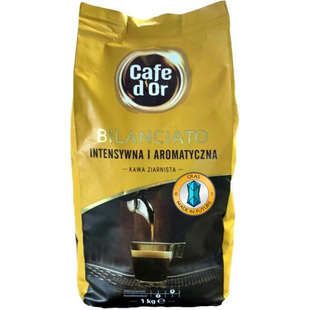
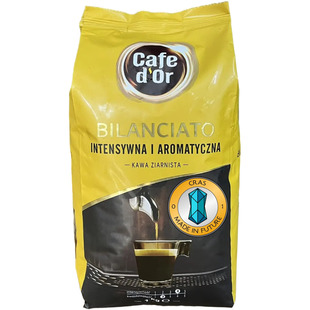
Added big coffee img

diff --git a/js/food/array-coffee_beans.js b/js/food/array-coffee_beans.js
@@ -107,8 +107,14 @@ export const shopLotsCoffeeBeans = [
         type: "retail",
         url: "./images/shop/food/drinks/coffee_beans/cafe_d`Or_bilanciato_1kg.jpg",
         alt: "cafe_d`Or_bilanciato_1kg",
-        url1: "./images/shop/food/drinks/coffee_beans/cafe_d`Or_bilanciato_1kg.jpg",
-        alt1: "cafe_d`Or_bilanciato_1kg",
+        url1: "./images/shop/food/drinks/coffee_beans/cafe_d`Or_bilanciato_1kg-01.jpg",
+        alt1: "cafe_d`Or_bilanciato_1kg-01",
+        url2: "./images/shop/food/drinks/coffee_beans/cafe_d`Or_bilanciato_1kg-02.jpg",
+        alt2: "cafe_d`Or_bilanciato_1kg-02",
+        url3: "./images/shop/food/drinks/coffee_beans/cafe_d`Or_bilanciato_1kg-03.jpg",
+        alt3: "cafe_d`Or_bilanciato_1kg-03",
+        url4: "./images/shop/food/drinks/coffee_beans/cafe_d`Or_bilanciato_1kg-04.jpg",
+        alt4: "cafe_d`Or_bilanciato_1kg-04",
         marker: "CFBN100",
         brand: "Cafe D`Or",
         search: "кафе дьор кава кофе у зерно зернова в зернах",
@@ -130,8 +136,12 @@ export const shopLotsCoffeeBeans = [
         type: "retail",
         url: "./images/shop/food/drinks/coffee_beans/cafe_d`Or_crema_500.jpg",
         alt: "cafe_d`Or_crema_500",
-        url1: "./images/shop/food/drinks/coffee_beans/cafe_d`Or_crema_500.jpg",
-        alt1: "cafe_d`Or_crema_500",
+        url1: "./images/shop/food/drinks/coffee_beans/cafe_d`Or_crema_500-01.jpg",
+        alt1: "cafe_d`Or_crema_500-01",
+        url2: "./images/shop/food/drinks/coffee_beans/cafe_d`Or_crema_500-02.jpg",
+        alt2: "cafe_d`Or_crema_500-02",
+        url3: "./images/shop/food/drinks/coffee_beans/cafe_d`Or_crema_500-03.jpg",
+        alt3: "cafe_d`Or_crema_500-03",
         marker: "CFBN105",
         brand: "Cafe D`Or",
         search: "кафе дьор кава кофе у зерно зернова в зернах крема крем кремова",
@@ -153,8 +163,12 @@ export const shopLotsCoffeeBeans = [
         type: "retail",
         url: "./images/shop/food/drinks/coffee_beans/cafe_d`Or_espresso_500.jpg",
         alt: "cafe_d`Or_espresso_500",
-        url1: "./images/shop/food/drinks/coffee_beans/cafe_d`Or_espresso_500.jpg",
-        alt1: "cafe_d`Or_espresso_500",
+        url1: "./images/shop/food/drinks/coffee_beans/cafe_d`Or_espresso_500-01.jpg",
+        alt1: "cafe_d`Or_espresso_500-01",
+        url2: "./images/shop/food/drinks/coffee_beans/cafe_d`Or_espresso_500-02.jpg",
+        alt2: "cafe_d`Or_espresso_500-02",
+        url3: "./images/shop/food/drinks/coffee_beans/cafe_d`Or_espresso_500-03.jpg",
+        alt3: "cafe_d`Or_espresso_500-03",
         marker: "CFBN110",
         brand: "Cafe D`Or",
         search: "кафе дьор кава кофе у зерно зернова в зернах",
